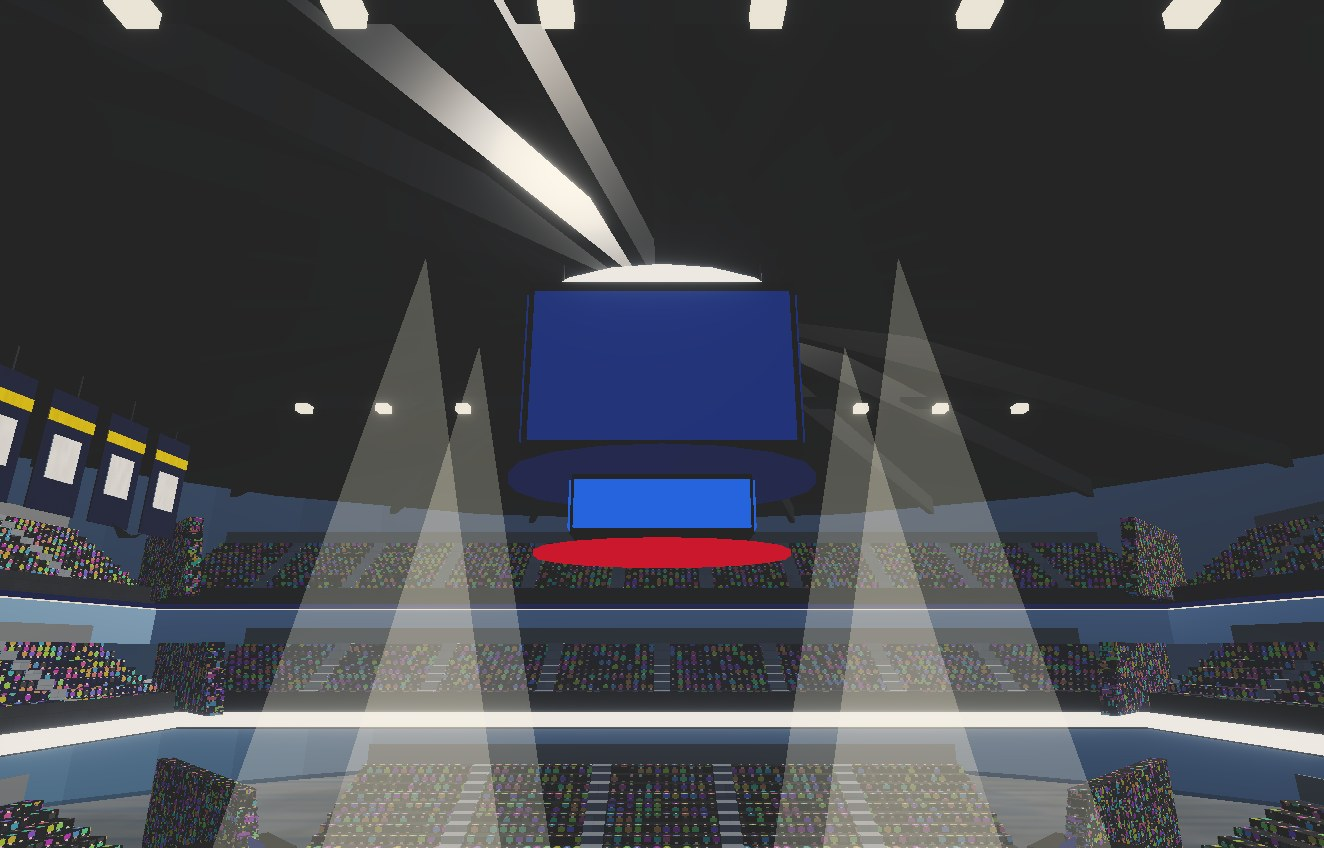
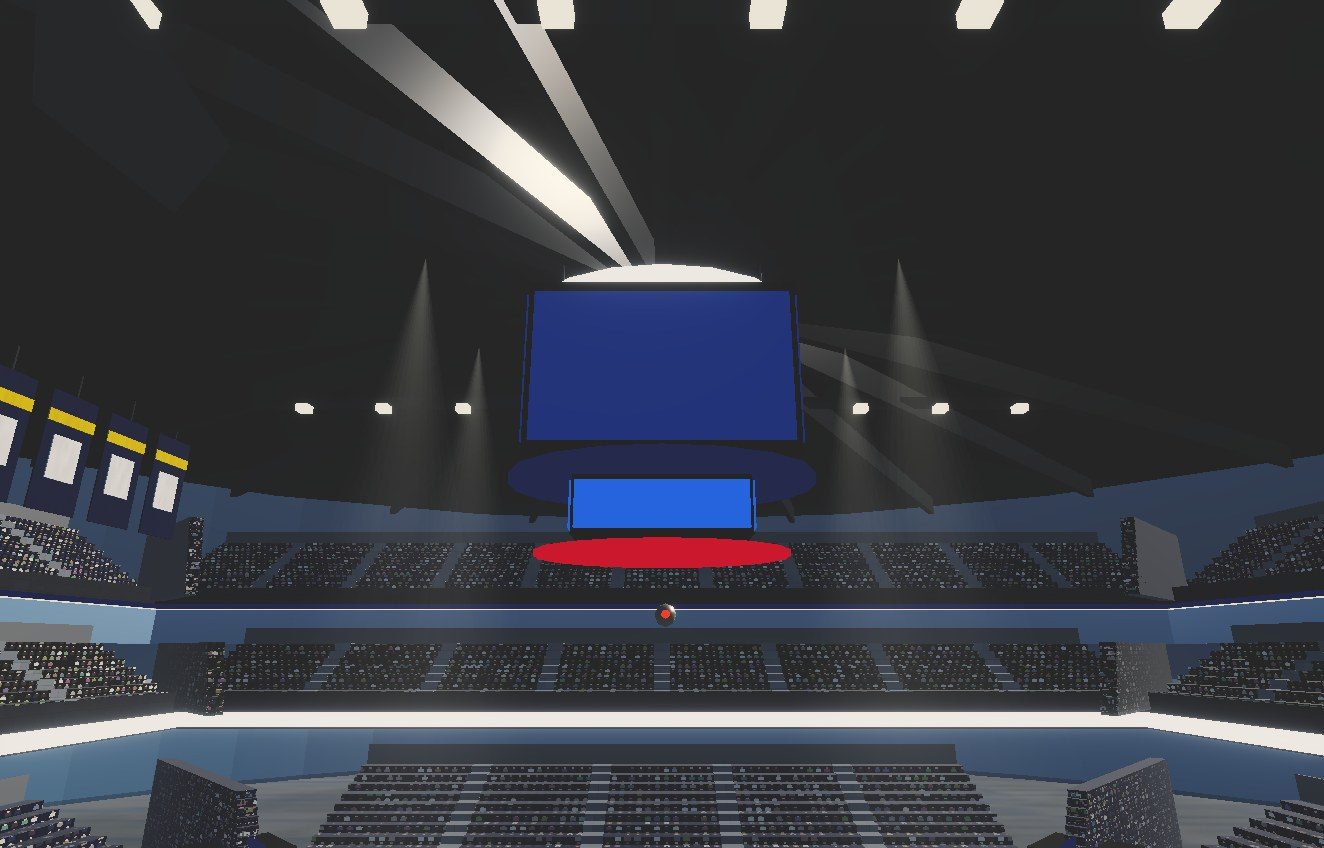
Realistic crowds (muted clothing, team jerseys, seated people, seat backs, distance fade), arena seat colour scheme, soft fading light shafts
Claude-Session: https://claude.ai/code/session_014yo4DpHJhzR4RbKay17FEp

Changed region(s): [[0.0, 0.3373, 1.0, 1.0], [0.929, 0.6132, 1.0, 0.6745], [0.0619, 0.0, 0.1239, 0.0307]]

diff --git a/src/explorer/Districts.tsx b/src/explorer/Districts.tsx
@@ -31,6 +31,8 @@ const SHAPES: Record<DShape, THREE.BufferGeometry> = {
     return new THREE.ExtrudeGeometry(s, { depth: 1.1, bevelEnabled: false }).translate(0, 0, -0.55);
   })(),
   arch: archGeo,
+  // light shafts: an open cone (no cap) with its apex at the top
+  beamCone: new THREE.ConeGeometry(0.5, 1, 32, 1, true).translate(0, 0.5, 0),
   // pitch and court markings: thin rings lying flat, a full circle and two arcs centred on +x
   ring: new THREE.RingGeometry(0.494, 0.5, 72).rotateX(-Math.PI / 2),
   // the penalty-area D (106 degrees) and the NBA three-point arc (136 degrees)
@@ -45,6 +47,40 @@ const SHAPES: Record<DShape, THREE.BufferGeometry> = {
 type Quality = 'low' | 'medium' | 'high';
 
 const glassNight = { value: 0 };
+
+/**
+ * Soft light shafts: additive, brightest along the axis and near the lamp, fading to nothing at
+ * the cone's silhouette and towards the floor, so they read as light in haze, not as solid cones.
+ */
+function beamMaterial(opacity: number): THREE.MeshBasicMaterial {
+  const m = new THREE.MeshBasicMaterial({ color: '#ffffff', transparent: true, opacity, blending: THREE.AdditiveBlending, depthWrite: false, side: THREE.DoubleSide, toneMapped: false });
+  m.customProgramCacheKey = () => 'district-light-beam';
+  m.onBeforeCompile = (shader) => {
+    shader.vertexShader = shader.vertexShader
+      .replace('#include <common>', '#include <common>\nvarying float vEdge;\nvarying float vH;')
+      .replace(
+        '#include <project_vertex>',
+        `#include <project_vertex>
+        {
+          vec3 bn = normal;
+          #ifdef USE_INSTANCING
+            bn = mat3(instanceMatrix) * bn;
+          #endif
+          vec3 vn = normalize(normalMatrix * bn);
+          vEdge = abs(dot(vn, normalize(-mvPosition.xyz)));
+          vH = position.y;
+        }`,
+      );
+    shader.fragmentShader = shader.fragmentShader
+      .replace('#include <common>', '#include <common>\nvarying float vEdge;\nvarying float vH;')
+      .replace(
+        '#include <dithering_fragment>',
+        `#include <dithering_fragment>
+        gl_FragColor.a *= pow(vEdge, 3.0) * mix(0.15, 1.0, vH * vH);`,
+      );
+  };
+  return m;
+}
 const crowdLight = { value: 0.08 };
 
 /**
@@ -85,25 +121,39 @@ function crowdMaterial(): THREE.MeshStandardMaterial {
           float row = floor(vCW.y / 0.3);
           float cellId = floor(seat);
           float fs = fract(seat) - 0.5;
-          float h = chash(vec3(cellId, row, floor(top > 0.5 ? (abs(n.x) > abs(n.z) ? vCW.x : vCW.z) / 0.75 : 0.0)));
-          float fan = step(h, 0.9);
-          // muted, varied clothing, about a third of the crowd in club colours
-          vec3 shirt = 0.32 + 0.26 * cos(6.2832 * (h * 5.7 + vec3(0.0, 0.33, 0.67)));
-          shirt = mix(shirt, seatCol * 1.1, step(0.66, fract(h * 13.7)));
-          shirt = mix(shirt, vec3(0.08), step(0.85, fract(h * 7.3)));
+          float h = chash(vec3(cellId, row, floor(top > 0.5 ? (abs(n.x) > abs(n.z) ? vCW.x : vCW.z) / 0.8 : 0.0)));
+          float fan = step(h, 0.93);
+          // clothing like a real crowd: mostly black, navy, grey and white, about a third in team
+          // jerseys (the seat colour, brightened), the rest in muted colours
+          float pick = fract(h * 13.7);
+          vec3 muted = mix(vec3(0.3), 0.32 + 0.22 * cos(6.2832 * (h * 5.7 + vec3(0.0, 0.33, 0.67))), 0.55);
+          vec3 shirt = pick < 0.22 ? vec3(0.06 + 0.06 * fract(h * 3.1), 0.07, 0.1)
+            : pick < 0.36 ? vec3(0.32 + 0.2 * fract(h * 5.3))
+            : pick < 0.48 ? vec3(0.82)
+            : pick < 0.8 ? clamp(seatCol * 1.9 + 0.04, 0.0, 1.0)
+            : muted;
           vec3 skin = mix(vec3(0.36, 0.22, 0.15), vec3(0.86, 0.68, 0.55), fract(h * 31.3));
-          // top faces: shoulders and a head seen from above
-          vec2 g2 = vec2(fs, fract((abs(n.x) > abs(n.z) ? vCW.x : vCW.z) / 0.75) - 0.5);
-          float body = 1.0 - smoothstep(0.32, 0.4, length(g2 * vec2(1.0, 1.4)));
-          float head = 1.0 - smoothstep(0.1, 0.14, length(g2));
-          vec3 onTop = mix(seatCol * 0.55, mix(shirt, skin, head), fan * body);
-          // row fronts: torsos and heads above the seat backs
+          vec3 hair = mix(vec3(0.05, 0.04, 0.03), vec3(0.45, 0.32, 0.2), step(0.8, fract(h * 17.1)));
+          // top faces: each seat holds a person seen from above, shoulders and a head, or shows the
+          // empty seat pan with its seat back
+          vec2 g2 = vec2(fs, fract((abs(n.x) > abs(n.z) ? vCW.x : vCW.z) / 0.8) - 0.5);
+          float body = 1.0 - smoothstep(0.28, 0.34, length(g2 * vec2(1.0, 1.25)));
+          float head = 1.0 - smoothstep(0.1, 0.13, length(g2 - vec2(0.0, -0.05)));
+          vec3 person = mix(shirt, mix(hair, skin, step(0.5, fract(h * 23.0))), head);
+          vec3 seatTop = mix(seatCol, seatCol * 0.6, step(0.38, abs(fs)));
+          vec3 onTop = mix(seatTop, person, fan * body);
+          // row fronts: seat backs with armrest gaps, and above them torsos and heads of the seated
           float yf = fract(vCW.y / 0.3);
-          float torso = step(abs(fs), 0.36) * fan;
-          vec3 riser = mix(seatCol * 0.5, seatCol * 0.25, step(0.42, abs(fs)));
-          riser = mix(riser, shirt, torso * step(yf, 0.75));
-          riser = mix(riser, skin, torso * step(0.75, yf) * step(abs(fs), 0.16));
-          diffuseColor.rgb = mix(riser, onTop, top);
+          float torso = step(abs(fs), 0.32) * fan;
+          vec3 riser = mix(seatCol, seatCol * 0.35, step(0.43, abs(fs)));
+          riser = mix(riser, seatCol * 1.25, step(0.9, yf) * step(abs(fs), 0.43));
+          riser = mix(riser, shirt * 0.9, torso * step(0.25, yf) * step(yf, 0.78));
+          riser = mix(riser, skin, torso * step(0.78, yf) * step(abs(fs), 0.14));
+          // far away, single seats are smaller than a pixel: fade to the crowd's average tone so
+          // distant stands read as a dense crowd instead of shimmering noise
+          float fw = length(fwidth(vCW));
+          vec3 avg = mix(seatCol * 0.6, mix(vec3(0.3), clamp(seatCol * 1.9 + 0.04, 0.0, 1.0), 0.35), 0.8);
+          diffuseColor.rgb = mix(mix(riser, onTop, top), avg, smoothstep(0.12, 0.35, fw));
         }`,
       )
       .replace(
@@ -188,8 +238,8 @@ export function Districts({ data, quality }: { data: DistrictData; quality: Qual
       crowd: crowdMaterial(),
       // light beams: faint, additive, so they read as haze lit by the floodlights
       // the open-air stadium's floodlight beams only show after dark
-      nightBeam: new THREE.MeshBasicMaterial({ color: '#ffffff', transparent: true, opacity: 0, blending: THREE.AdditiveBlending, depthWrite: false, side: THREE.DoubleSide, toneMapped: false }),
-      beam: new THREE.MeshBasicMaterial({ color: '#ffffff', transparent: true, opacity: 0.06, blending: THREE.AdditiveBlending, depthWrite: false, side: THREE.DoubleSide, toneMapped: false }),
+      nightBeam: beamMaterial(0),
+      beam: beamMaterial(0.16),
       // pitch and court markings: unshaded so they stay crisp white in shade and at night, drawn
       // in front of the surface they lie on
       paint: new THREE.MeshBasicMaterial({ color: '#ffffff', toneMapped: false, polygonOffset: true, polygonOffsetFactor: -2, polygonOffsetUnits: -2 }),
@@ -209,8 +259,8 @@ export function Districts({ data, quality }: { data: DistrictData; quality: Qual
     // floodlights: the pitch, the court and the crowd carry their own light after dark
     (mats.pitch as THREE.MeshStandardMaterial).emissiveIntensity = n * 0.55;
     (mats.court as THREE.MeshStandardMaterial).emissiveIntensity = 0.2 + n * 0.6;
-    crowdLight.value = 0.08 + n * 0.45;
-    (mats.nightBeam as THREE.MeshBasicMaterial).opacity = n * 0.07;
+    crowdLight.value = 0.06 + n * 0.22;
+    (mats.nightBeam as THREE.MeshBasicMaterial).opacity = n * 0.16;
   });
   const groups = useMemo(() => {
     const g = new Map<string, DPiece[]>();

diff --git a/src/explorer/venues.ts b/src/explorer/venues.ts
@@ -416,7 +416,7 @@ export function footballStadium(out: DistrictData, add: Add, b: Building, warm: 
     A('box', 'cloth', u, 0.1, -W2 - 2.4, 0.36, 0.75, 0.22, '#1a1a1e');
     A('sphere', 'plaster', u, 1.7, -W2 - 2.4, 0.24, 0.26, 0.24, ['#e8c4a0', '#7a4a2a', '#b07850'][k % 3]);
   }
-  for (const s of [-1, 1]) for (const t of [-1, 1]) A('cone', 'nightBeam', s * L2 * 0.55, 0.2, t * W2 * 0.6, 26, roofY + rise - 2, 26, '#fff8e6');
+  for (const s of [-1, 1]) for (const t of [-1, 1]) A('beamCone', 'nightBeam', s * L2 * 0.55, 0.2, t * W2 * 0.6, 26, roofY + rise - 2, 26, '#fff8e6');
   out.lights.push([0, 0]);
   void warm;
 }
@@ -510,11 +510,14 @@ export function nbaArena(add: Add, b: Building) {
       y += rows * rowH + lift;
     }
   }
+  // seats: the lower bowl and upper deck in a deep shade of the team colour, the club level in
+  // black leather, as most NBA arenas do it
+  const seatFor = (ti: number) => (ti === 1 ? '#1a1b1f' : new THREE.Color(team).multiplyScalar(ti === 0 ? 0.62 : 0.5).getStyle());
   for (const [ti, tr] of tiers.entries()) {
     for (const [len, off, rot] of [[CL + 2 * tr.front, CW / 2 + tr.front, Math.PI], [CL + 2 * tr.front, CW / 2 + tr.front, 0], [CW + 2 * tr.front, CL / 2 + tr.front, Math.PI / 2], [CW + 2 * tr.front, CL / 2 + tr.front, -Math.PI / 2]] as const) {
       const ox = Math.sin(rot) * -off;
       const oz = Math.cos(rot) * -off;
-      stand((sh, m, x, y, z, a, bb, c, col, rr = 0, rx = 0, rz = 0) => A(sh, m, x, y, z, a, bb, c, col, rr, rx, rz), ox, oz, len, tr.rows, 0.8, tr.rowH, tr.y, rot, ti === 1 ? team : '#2a2e3a', 7);
+      stand((sh, m, x, y, z, a, bb, c, col, rr = 0, rx = 0, rz = 0) => A(sh, m, x, y, z, a, bb, c, col, rr, rx, rz), ox, oz, len, tr.rows, 0.8, tr.rowH, tr.y, rot, seatFor(ti), 7);
       // ribbon board along the front of the upper tiers
       if (ti > 0) {
         const fx = ox + Math.sin(rot) * 0.4;
@@ -525,7 +528,7 @@ export function nbaArena(add: Add, b: Building) {
     // corner sections, angled
     for (const s of [-1, 1]) for (const t of [-1, 1]) {
       const d = tr.front + tr.rows * 0.4;
-      for (let k = 0; k < tr.rows; k++) A('box', 'crowd', s * (CL / 2 + d * 0.7 + k * 0.4), tr.y, t * (CW / 2 + d * 0.7 + k * 0.4), 8 + k * 0.6, (k + 1) * tr.rowH, 0.9, ti === 1 ? team : '#2a2e3a', Math.atan2(s, t) + Math.PI / 2);
+      for (let k = 0; k < tr.rows; k++) A('box', 'crowd', s * (CL / 2 + d * 0.7 + k * 0.4), tr.y, t * (CW / 2 + d * 0.7 + k * 0.4), 8 + k * 0.6, (k + 1) * tr.rowH, 0.9, seatFor(ti), Math.atan2(s, t) + Math.PI / 2);
     }
   }
   // suites: a glazed, lit band between the second and third tier
@@ -588,7 +591,7 @@ export function nbaArena(add: Add, b: Building) {
     A('box', 'metal', bu, H - 6.5, v, 0.1, 1.2, 0.1, '#5a5e66');
   }
   // light beams from the rigs onto the court
-  for (const s of [-1, 1]) for (const t of [-1, 1]) A('cone', 'beam', s * CL * 0.28, 0.25, t * CW * 0.25, 10, H - 6.5, 10, '#fff6e0');
+  for (const s of [-1, 1]) for (const t of [-1, 1]) A('beamCone', 'beam', s * CL * 0.28, 0.25, t * CW * 0.25, 10, H - 6.5, 10, '#fff6e0');
   // tunnels at the four corners of the lower bowl, with lit signs
   for (const s of [-1, 1]) for (const t of [-1, 1]) {
     const px = s * (CL / 2 + 6);

diff --git a/src/explorer/districts.ts b/src/explorer/districts.ts
@@ -8,7 +8,7 @@ import { footballStadium, nbaArena } from './venues';
  * mall, a mosque and a temple, and palm-lined boulevards. Everything is built
  * from a handful of instanced shapes so a whole district costs a few draw calls.
  */
-export type DShape = 'box' | 'cyl' | 'cone' | 'hemi' | 'sphere' | 'gable' | 'arch' | 'palmTrunk' | 'fronds' | 'oct' | 'hip' | 'ring' | 'dArc' | 'threeArc';
+export type DShape = 'box' | 'cyl' | 'cone' | 'hemi' | 'sphere' | 'gable' | 'arch' | 'palmTrunk' | 'fronds' | 'oct' | 'hip' | 'ring' | 'dArc' | 'threeArc' | 'beamCone';
 export type DMat = 'plaster' | 'stone' | 'roof' | 'glass' | 'water' | 'gold' | 'metal' | 'leaf' | 'bark' | 'glow' | 'wood' | 'lawn' | 'cloth' | 'dark' | 'marble' | 'crowd' | 'pitch' | 'court' | 'net' | 'skylight' | 'paint' | 'beam' | 'nightBeam';
 
 export interface DPiece {

diff --git a/PHASE2_REPORT.md b/PHASE2_REPORT.md
@@ -589,6 +589,24 @@ Requested: "Make a basketball NBA sized stadium, make a football Premier League 
 - The court sponsor panels sit above the apron surface. The tests were adjusted to require paint above the apron (0.18 m) everywhere and above the keys (0.23 m) for the court markings.
 - Photos re-shot in `docs/screenshots/venues/`: stadium stands (day and night), pitchside, home end, goal; arena interior (day and night), court, scoreboard.
 
+**Follow-up: seats and light beams.** Requested: "make the arena seats more realistic, and the beams of light look weird".
+
+**Seats**
+- **Arena seat scheme.** The lower bowl and upper deck use a deep shade of the team colour, and the club level is black leather.
+- **Clothing.** Fans dress like a real crowd: mostly black, navy, grey and white, about a third in team jerseys, the rest in muted colours. Before, every fan had a saturated rainbow shirt.
+- **Seen from above.** Each occupied seat shows shoulders and a head, with skin or hair showing.
+- **Row fronts.** Seat backs with armrest gaps and a lit top edge, with torsos and heads above them.
+- **Hash fix.** The hash that picks a person now uses the same 0.8 m cells as the drawing, so a person never changes colour halfway across.
+- **Distance.** Far away, the per-seat detail fades to the crowd's average tone, so distant stands read as a dense crowd instead of shimmering noise.
+- **Night glow.** The crowd's night glow was cut by half.
+
+**Light beams**
+- The beams were solid cones with a cap and hard edges.
+- They are now open cones in an additive shader, brightest along the axis and near the lamp, fading to nothing at the silhouette and towards the floor.
+- This applies to both the arena (always on) and the stadium (after dark only).
+
+**Photos.** Re-shot in `docs/screenshots/venues/`: arena interior (day and night), court and scoreboard, and the stadium stands (day and night).
+
 ## Limitations and unfinished items
 
 - **Frame-rate targets unproven** (55 fps at 5× in Universe; 60 fps with ≥ 150 figures on medium): no GPU in this environment. Measured relative to the baseline under software rendering, the current build is 2–3× slower at medium (see Phase 4).
